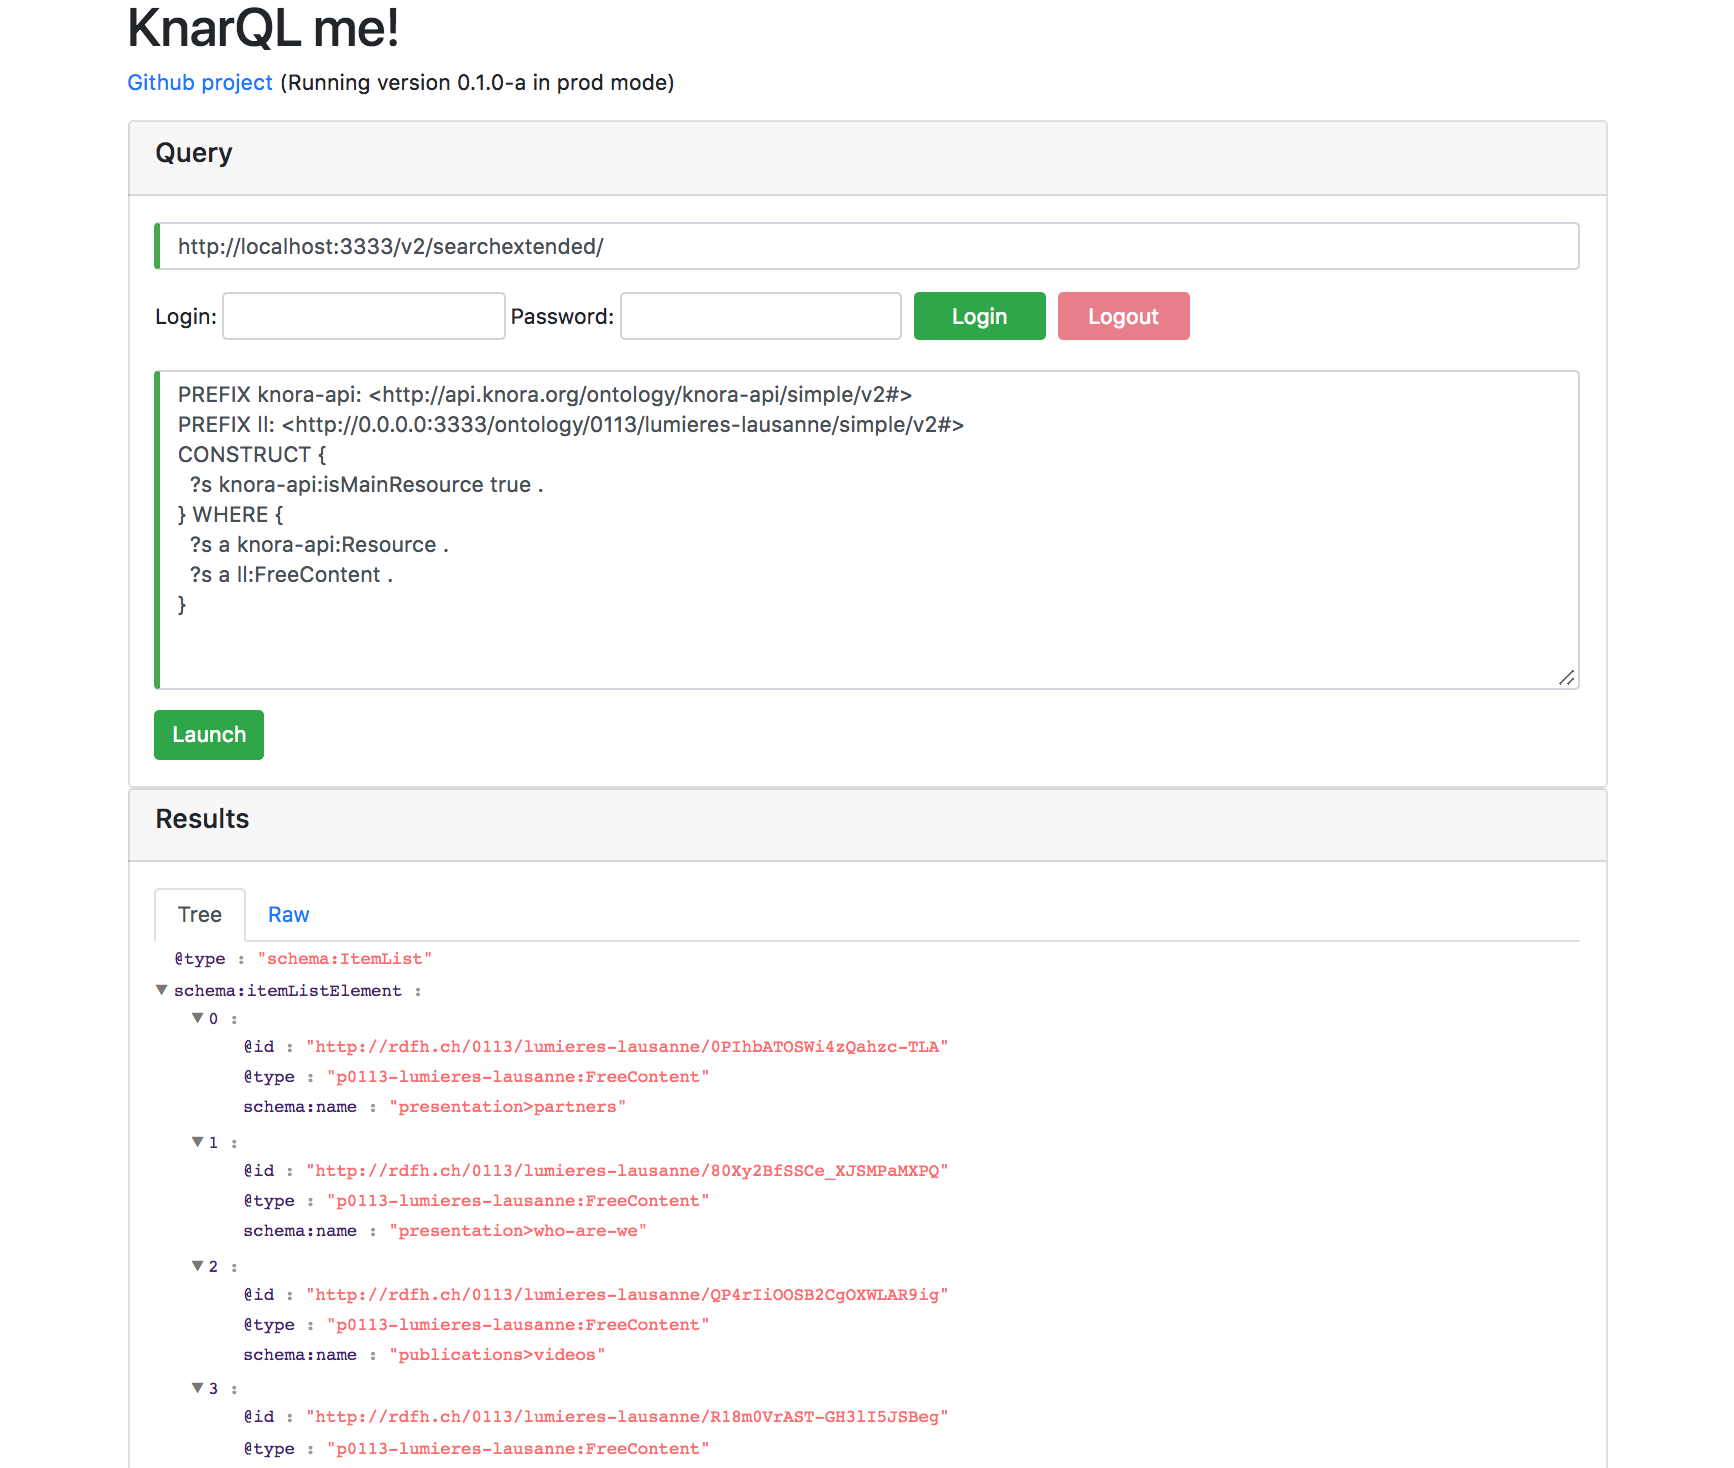
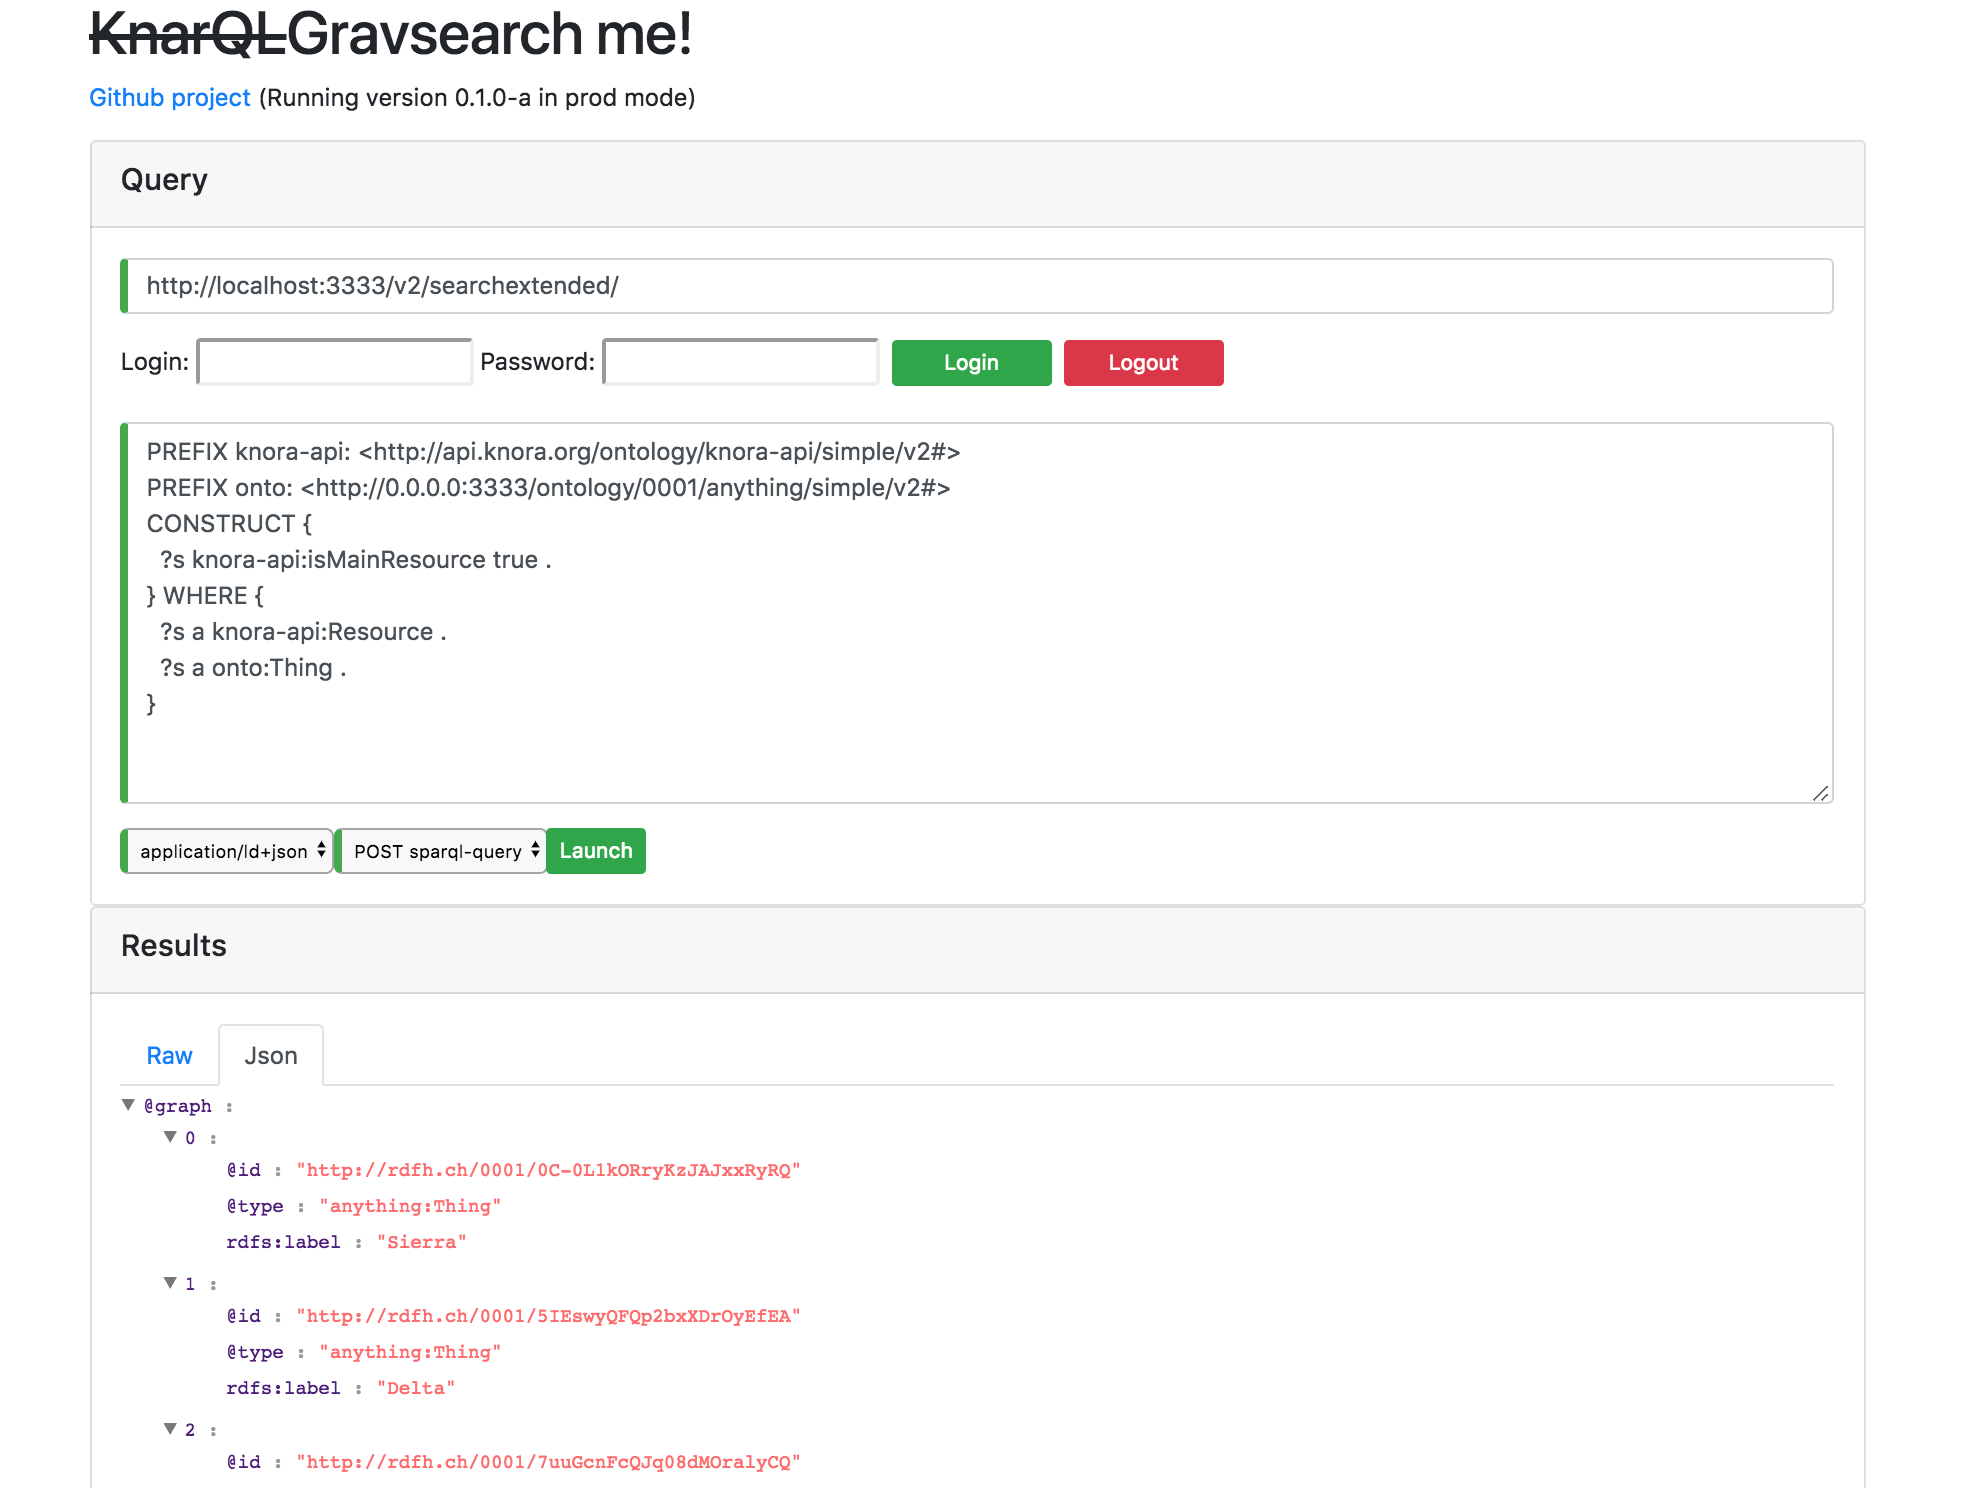
fix doc

Changed region(s): [[0.0311, 0.0, 0.9343, 1.0], [0.9031, 0.2759, 0.9343, 0.4905], [0.9031, 0.1533, 0.9343, 0.1839]]

diff --git a/README.md b/README.md
@@ -1,4 +1,4 @@
-# KnarQL me!
+# ~~KnarQL~~ Gravsearch me!
 
 [![Build Status](https://travis-ci.org/gfoo/knarql-me.svg?branch=master)](https://travis-ci.org/gfoo/knarql-me)
 
